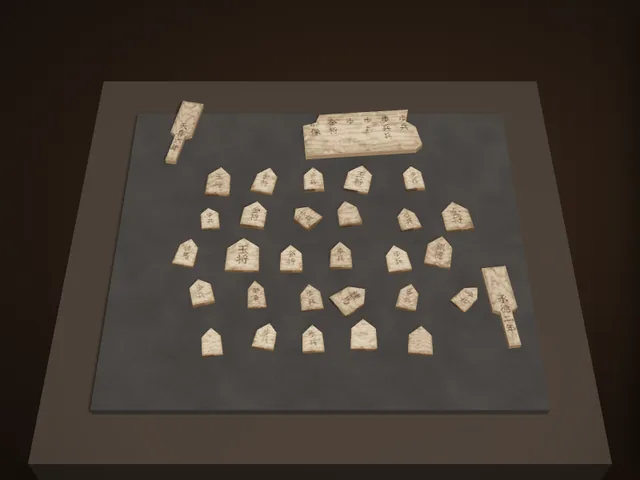
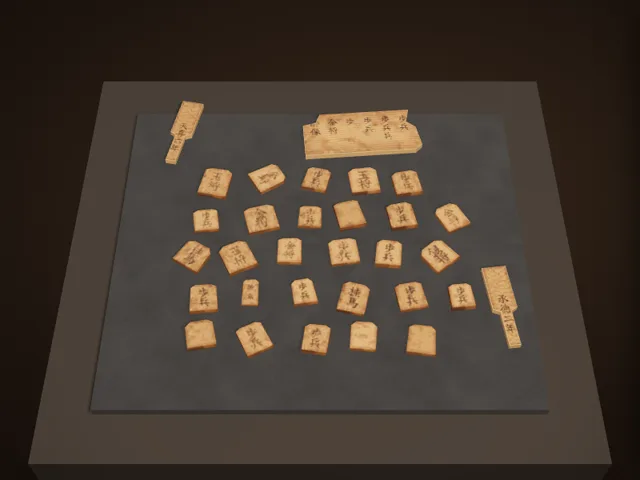
博物館：興福寺の将棋駒の色・形・墨を文化遺産オンラインの写真に合わせて修正
Claude-Session: https://claude.ai/code/session_01EiWRAZTxRF5M5nk5vdR2jJ

Changed region(s): [[0.25, 0.2188, 0.8125, 0.75], [0.25, 0.1875, 0.3125, 0.3438]]

diff --git a/atlas/museum/ex/kofukuji.js b/atlas/museum/ex/kofukuji.js
@@ -4,7 +4,9 @@
    scroll rod inscribed 天喜六年 (1058); from the Kanzen'in area (2013, a well and a pit) 12 pieces — 酔象 1, 桂馬 1, 歩兵 7,
    3 without names — and a scroll rod inscribed 承徳二年 (1098). The 酔象 is about 2.5 × 1.5 cm and 2 mm thick (press reports).
    Shown as in the museum's photograph: the 31 pieces laid out loosely on a dark cloth. Each piece's size and outline, how much of
-   its ink survives, the size of the tablet and rods and the writing on them are drawn in the manner of the photograph (estimates). */
+   its ink survives, the size of the tablet and rods and the writing on them are drawn in the manner of the photograph (estimates).
+   2026-11-21: colour, outline and ink checked against the Agency for Cultural Affairs' photograph (文化遺産オンライン 413142):
+   warm tan wood, pieces about as wide as tall with low shoulders and a blunt top, heavy blurred ink filling the face. */
 (function () {
   'use strict';
   let fontP = null;
@@ -34,20 +36,20 @@
       const font = '"Yuji Boku","Yu Mincho","Hiragino Mincho ProN",serif';
       // weathered wood, a thousand years in a waterlogged well: pale grey-beige, darker at the edges, streaked and stained
       const woodFace = (g, W, H, k, tone) => {
-        K.grain(g, W, H, { a: tone > .5 ? '#94826a' : '#83725c', b: tone > .5 ? '#73624d' : '#635342', seed: 70 + k, sx: 1.2, sy: 5 + (k % 4), warp: .25 });
+        K.grain(g, W, H, { a: tone > .5 ? '#a8845a' : '#9a774e', b: tone > .5 ? '#8c6a44' : '#7e5e3a', seed: 70 + k, sx: 2.5, sy: 14 + (k % 5) * 2, warp: .08 });   // warm tan, as in the 2022 photographs
         const n = K.noise(110 + k), img = g.getImageData(0, 0, W, H), d = img.data;
         for (let y = 0; y < H; y++) for (let x = 0; x < W; x++) { const e = Math.min(x, y, W - x, H - y) / W, a = n(x / 40, y / 40, 3), b = n(x / 9 + 3, y / 9, 2), dk = Math.max(0, .14 - e) * 2.8 + Math.max(0, a - .52) * 1.3 + (b - .5) * .25, i = (y * W + x) * 4;
-          d[i] *= 1 - dk * .6; d[i + 1] *= 1 - dk * .65; d[i + 2] *= 1 - dk * .7; }
+          d[i] *= 1 - dk * .5; d[i + 1] *= 1 - dk * .6; d[i + 2] *= 1 - dk * .7; }
         g.putImageData(img, 0, 0);
       };
       const ink = (g, W, H, txt, keep) => {   // two characters, top to bottom, partly worn away
-        g.save(); g.filter = 'blur(1.2px)'; g.fillStyle = `rgba(28,18,10,${.45 + keep * .4})`; g.textAlign = 'center'; g.textBaseline = 'middle';
-        const fs = W * (txt.length > 2 ? .3 : .42); g.font = `${Math.round(fs)}px ${font}`;
-        const ch = [...txt], y0 = H * (ch.length > 2 ? .26 : .36), dy = ch.length > 2 ? H * .18 : H * .3;
+        g.save(); g.filter = 'blur(3px)'; g.fillStyle = `rgba(22,16,12,${.5 + keep * .42})`; g.textAlign = 'center'; g.textBaseline = 'middle';
+        const fs = W * (txt.length > 2 ? .34 : .5); g.font = `${Math.round(fs)}px ${font}`;
+        const ch = [...txt], y0 = H * (ch.length > 2 ? .24 : .3), dy = ch.length > 2 ? H * .2 : H * .38;
         ch.forEach((c, i) => { g.save(); g.translate(W / 2 + (rnd() - .5) * W * .05, y0 + i * dy); g.rotate((rnd() - .5) * .08); g.fillText(c, 0, 0); g.restore(); });
         g.restore();
         // the wood showing through where the ink has worn
-        for (let q = 0; q < 26 * (1.2 - keep); q++) { g.beginPath(); g.ellipse(rnd() * W, rnd() * H, 3 + rnd() * 10, 2 + rnd() * 5, rnd() * 3, 0, 6.29); g.fillStyle = `rgba(${150 + rnd() * 30 | 0},${128 + rnd() * 22 | 0},${98 + rnd() * 18 | 0},${.35 + rnd() * .4})`; g.fill(); }
+        for (let q = 0; q < 70 * (1.3 - keep); q++) { g.beginPath(); g.ellipse(rnd() * W, rnd() * H, 2 + rnd() * 5, 6 + rnd() * 22, (rnd() - .5) * .3, 0, 6.29); g.fillStyle = `rgba(${148 + rnd() * 24 | 0},${116 + rnd() * 20 | 0},${80 + rnd() * 16 | 0},${.3 + rnd() * .45})`; g.fill(); }   // worn along the grain
       };
       const mats = [];
       const pieceMat = (txt, k, w, h, keep) => {
@@ -55,13 +57,13 @@
         const T = K.tex(W, H, g => { woodFace(g, W, H, k, tone); if (txt) ink(g, W, H, txt, keep); });
         T.repeat.set(1 / w, 1 / h); T.offset.set(.5, 0);
         const sideT = K.tex(64, 64, g => woodFace(g, 64, 64, k + 50, tone * .6));
-        const m = [K.mat({ map: T, color: '#ffffff', roughness: .88 }), K.mat({ map: sideT, color: '#d8ccb8', roughness: .92 })]; mats.push(m); return m;
+        const m = [K.mat({ map: T, color: '#e4d2bc', roughness: .9 }), K.mat({ map: sideT, color: '#c8a878', roughness: .92 })]; mats.push(m); return m;
       };
       // one piece: an irregular, hand-cut pentagon, a little chipped
       const piece = (txt, k, w, h, t, keep) => {
-        const j = () => (rnd() - .5) * .1, sh = h * (.3 + rnd() * .06), S = new TT.Shape();
-        S.moveTo(-w / 2 + j(), j() * .4); S.lineTo(w / 2 + j(), j() * .4); S.lineTo(w / 2 * (.9 + rnd() * .06) + j(), h - sh + j());
-        S.lineTo(j() * 1.5, h + j()); S.lineTo(-w / 2 * (.9 + rnd() * .06) + j(), h - sh + j()); S.closePath();
+        const j = () => (rnd() - .5) * .1, sh = h * (.08 + rnd() * .07), S = new TT.Shape();
+        S.moveTo(-w / 2 + j(), j() * .4); S.lineTo(w / 2 + j(), j() * .4); S.lineTo(w / 2 * (.95 + rnd() * .04) + j(), h - sh + j());
+        S.lineTo(w * .3, h + j() * .5); S.lineTo(-w * .3, h + j() * .5); S.lineTo(-w / 2 * (.95 + rnd() * .04) + j(), h - sh + j()); S.closePath();
         const geo = new TT.ExtrudeGeometry(S, { depth: t, bevelEnabled: true, bevelThickness: .03, bevelSize: .04, bevelSegments: 1 });
         const m = new TT.Mesh(geo, pieceMat(txt, k, w, h, keep)); m.castShadow = m.receiveShadow = true; return m;
       };
@@ -71,7 +73,7 @@
         const geo = new TT.ExtrudeGeometry(S, { depth: t, bevelEnabled: true, bevelThickness: .04, bevelSize: .05, bevelSegments: 1 });
         const W = 512, H = Math.round(512 * h / w), tone = .3 + rnd() * .4;
         const T = K.tex(W, H, g => { woodFace(g, W, H, k, tone); draw(g, W, H); }); T.repeat.set(1 / w, 1 / h); T.offset.set(.5, 0);
-        const m = new TT.Mesh(geo, [K.mat({ map: T, color: '#ffffff', roughness: .9 }), K.mat({ color: '#6a5a46', roughness: .92 })]); m.castShadow = m.receiveShadow = true; return m;
+        const m = new TT.Mesh(geo, [K.mat({ map: T, color: '#e4d2bc', roughness: .9 }), K.mat({ color: '#8a6a44', roughness: .92 })]); m.castShadow = m.receiveShadow = true; return m;
       };
       const lay = (m, x, z, rz, h) => { m.rotation.x = -Math.PI / 2; m.position.set(0, .8, h / 2); const o = new TT.Group(); o.add(m); o.position.set(x, 0, z); o.rotation.y = rz; G.add(o); return o; };   // face up, point away
       // ---- the practice tablet: broken, the names of pieces written over and over (酔像 · 金将 · 歩 · 歩兵 · 歩兵兵)
@@ -87,14 +89,14 @@
       lay(rod('天喜六年', 11), -12.6, -12.4, -.2, 7.2); SP.t1 = [-12.6, 1.4, -9.0];
       lay(rod('承徳二年', 12), 14.6, 6.2, .12, 7.2); SP.t2 = [14.6, 1.4, 9.6];
       // ---- the 28 pieces: the 1992 set (16) and the 2013 set (12)
-      const SZ = { 玉将: [2.2, 2.95], 金将: [2.0, 2.7], 銀将: [2.0, 2.7], 桂馬: [1.9, 2.6], 歩兵: [1.65, 2.35], 酔象: [1.5, 2.5], '': [1.8, 2.5] };
+      const SZ = { 玉将: [2.6, 2.8], 金将: [2.4, 2.6], 銀将: [2.4, 2.6], 桂馬: [2.3, 2.5], 歩兵: [2.1, 2.3], 酔象: [1.5, 2.5], '': [2.2, 2.4] };   // about as wide as tall (photographs)
       const list = [['玉将', 3], ['金将', 4], ['銀将', 1], ['桂馬', 1], ['歩兵', 6], ['', 1], ['酔象', 1], ['桂馬', 1], ['歩兵', 7], ['', 3]];
       const P = []; list.forEach(([n, c]) => { for (let i = 0; i < c; i++) P.push(n); });
       // loose rows, as laid out in the photograph (order shuffled a little)
       const rows = [5, 6, 6, 6, 5]; let k = 0;
       const order = [0, 3, 24, 1, 14, 9, 4, 22, 15, 10, 5, 17, 2, 6, 18, 11, 7, 23, 16, 20, 8, 12, 19, 25, 21, 13, 26, 27];
       rows.forEach((n, ri) => { const z = -6.6 + ri * 3.9;
-        for (let c = 0; c < n; c++, k++) { const nm = P[order[k]], [w0, h0] = SZ[nm], s = .9 + rnd() * .18, w = w0 * s * (.86 + rnd() * .26), h = h0 * s, t = nm === '酔象' ? .2 : .22 + rnd() * .18;
+        for (let c = 0; c < n; c++, k++) { const nm = P[order[k]], [w0, h0] = SZ[nm], s = .9 + rnd() * .18, w = w0 * s * (.86 + rnd() * .26), h = h0 * s, t = nm === '酔象' ? .2 : .3 + rnd() * .2;
           const keep = nm ? .25 + rnd() * .75 : 0;
           const m = piece(nm, k, w, h, t, keep), x = (c - (n - 1) / 2) * 4.2 + (rnd() - .5) * 1.1 + (ri % 2 ? .8 : -.4);
           const zz = z + (rnd() - .5) * .8; if (!SP[nm || 'none']) SP[nm || 'none'] = [x, 1.3, zz + h * .5];

diff --git a/atlas/museum.js b/atlas/museum.js
@@ -32,7 +32,7 @@
   const ROOMS = [
     { id: 'map', ready: () => !!window.AtlasMap, render: (el, c) => AtlasMap.render(el, c) },
     { id: 'tree', src: ['museum/tree.js?v=2'], ready: () => !!window.AtlasTree, render: (el, c) => AtlasTree.render(el, c) },
-    { id: 'gallery', src: ['museum/gallery.js?v=20'], ready: () => !!window.AtlasGallery, render: (el, c) => AtlasGallery.render(el, c) },
+    { id: 'gallery', src: ['museum/gallery.js?v=21'], ready: () => !!window.AtlasGallery, render: (el, c) => AtlasGallery.render(el, c) },
   ];
   const KEY = 'atlas-museum-room';
   const esc = s => String(s == null ? '' : s).replace(/[&<>"]/g, c => ({ '&': '&amp;', '<': '&lt;', '>': '&gt;', '"': '&quot;' }[c]));

diff --git a/atlas/index.html b/atlas/index.html
@@ -2559,7 +2559,7 @@ window.AtlasRgdTimer = function (btn, ms, alive) {
 <link rel="stylesheet" href="worldmap.css?v=19">
 <link rel="stylesheet" href="museum.css?v=4">
 <script src="worldmap.js?v=40"></script>
-<script src="museum.js?v=21"></script>
+<script src="museum.js?v=22"></script>
 <script src="npc/npc.js?v=46"></script>
 <script src="avtalk.js?v=4"></script>
 <script>/* Page states as classes on <html> (2026-11-21) — html.cov-on: the 3D view / Historia / a sheet / a level sheet is open;

diff --git a/atlas/museum/gallery.js b/atlas/museum/gallery.js
@@ -10,7 +10,7 @@
    (a turn, a zoom, the slow turntable) and never while the window is in the background. */
 (function () {
   'use strict';
-  const V = 20;
+  const V = 21;
   /* ---------- the pieces: id, the game it belongs to, its scale (cm per model unit), the camera's start, the details ----------
      lock: { game, ach } → open after that many achievements of the game. src: the files the piece needs (besides ex/<id>.js) */
   const EX = [

diff --git a/claude/museum-spec.md b/claude/museum-spec.md
@@ -50,6 +50,7 @@
     記録：セネト（エジプト博物館の正面写真、Global Egyptian Museum 15033）total 27.4 → 38.1（2026-11-21、木の色、銘文の帯、脚の形、金の円筒、そりの反り、盤上の駒、開けた引き出し）。
     記録：木画紫檀双六局（正倉院の側面写真 CO0000011755）total 14.8 → 38.3（2026-11-21、盤の側面と床脚の高さ配分、床脚の刳り形とくびれた柱、明るい床脚の材、盤面の板目・三日月・花、木画の鳥と唐草）。　追記：全体写真（441、左手前から）で 51.6（盤面の花を縁ぞいの唐草の帯に、三日月を細く大きく、床脚の材を黄褐色に）。
     記録：オスマン帝国の盤のチェス面（V&A 2012FP3719）total 10.8 → 43.1（2026-11-21、濃い鼈甲、4枚組の螺鈿のマスと中央の星、S字の鎖、骨の縁。側面に螺鈿の六角形、板の厚さを記録に合わせ2.5cmに）。
+    記録：興福寺の将棋駒（文化遺産オンライン 413142 の写真）2026-11-21：木の色を暖かい黄褐色に、駒を幅と高さがほぼ同じ・肩の低い形に、墨を大きくにじませ木目に沿ってかすれさせた（数値は撮影条件が違うため目視で比較）。
   - スマホで遠目に見たときのちらつき・白飛びがないこと（カメラの near/far を狭く、テクスチャはミップマップと異方性フィルタ、トーンマップの露出 .85、重なる面は polygonOffset）。
 - 収蔵品（2026-11-21）：
   - ウルの王族のゲーム盤（大英博物館 120834）— ポータルのウルの3D盤（`atlas/models/ur.js`）をそのまま使う（実物そっくりの出来）。
